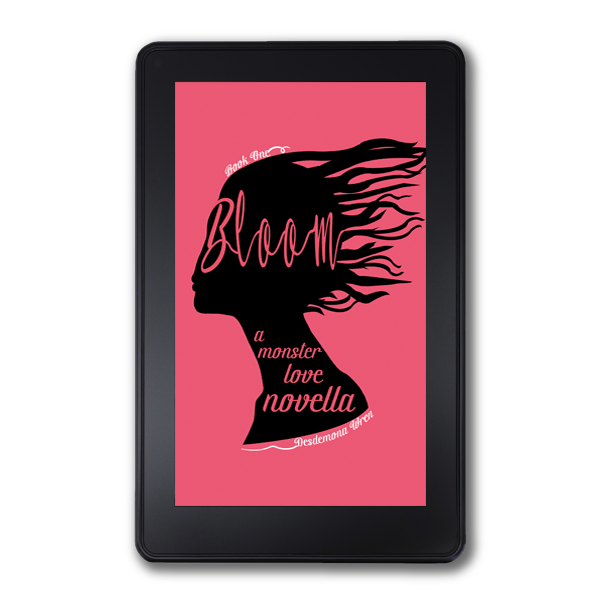
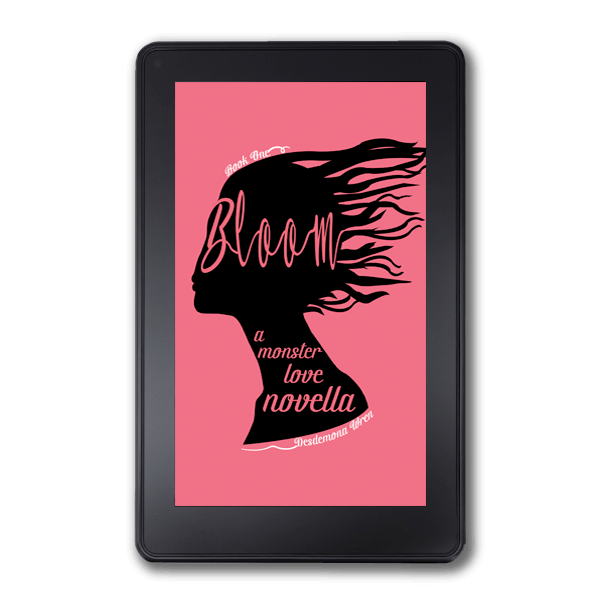
optimize images

Changed region(s): [[0.27, 0.12, 0.72, 0.84], [0.48, 0.36, 0.54, 0.42], [0.42, 0.39, 0.45, 0.42]]

diff --git a/index.html b/index.html
@@ -53,7 +53,7 @@
     <!-- Navigation -->
     <nav class="navbar navbar-expand-lg bg-secondary fixed-top text-uppercase" id="mainNav">
       <div class="container">
-        <a class="navbar-brand js-scroll-trigger" href="#page-top"><img class="img-fluid" src="img/website_logo_white1.png"></a>
+        <a class="navbar-brand js-scroll-trigger" href="#page-top"><img class="img-fluid" src="img/website_logo_white1.png" alt="Desdemona Wren"></a>
         <button class="navbar-toggler navbar-toggler-right text-uppercase bg-primary text-white rounded" type="button" data-toggle="collapse" data-target="#navbarResponsive" aria-controls="navbarResponsive" aria-expanded="false" aria-label="Toggle navigation">
           Menu
           <i class="fa fa-bars"></i>
@@ -70,7 +70,7 @@
               <a class="nav-link py-3 px-0 px-lg-3 rounded js-scroll-trigger" href="#social">Social</a>
             </li>
             <li class="nav-item mx-0 mx-lg-1">
-              <a class="nav-link py-3 px-0 px-lg-3 rounded js-scroll-trigger" href="https://desdemona-wren.tumblr.com/">Blog</a>
+              <a class="nav-link py-3 px-0 px-lg-3 rounded js-scroll-trigger" href="https://desdemona-wren.tumblr.com/" rel="noreferrer">Blog</a>
             </li>
           </ul>
         </div>
@@ -82,15 +82,15 @@
       <div class="container">
         <div class="row">
           <div class="col-md">
-            <a href="https://www.amazon.com/dp/B07FBWBDYR?ref_=pe_3052080_276849420" target="_blank">
-              <img class="img-fluid mb-5 d-block mx-auto" src="img/marjorie-diaz-for-website.png" alt="">
+            <a href="https://www.amazon.com/dp/B07FBWBDYR?ref_=pe_3052080_276849420" target="_blank" rel="noreferrer">
+              <img class="img-fluid mb-5 d-block mx-auto" src="img/marjorie-diaz-for-website.png" alt="Buy Marjorie on Amazon">
             </a>
           </div>
           <div class="col-md align-self-center">
             <h1 class="text-uppercase mb-0">Marjorie Diaz's Unfortunate Introduction <br>to Magical <br>High Society</h1></p>
             <h2 class="text-titlecase mb-0"><i>Girl meets boy.  Girl falls in love with boy.  <br>Boy hunts girl for sport.</i></h2></p>
             <p class="lead">Available now! <i>Only</i> on Amazon. </p>
-            <a href="https://www.amazon.com/dp/B07FBWBDYR?ref_=pe_3052080_276849420" target="_blank">
+            <a href="https://www.amazon.com/dp/B07FBWBDYR?ref_=pe_3052080_276849420" target="_blank" rel="noreferrer">
               <img class="img-fluid mb-5 d-block mx-auto" src="img/buy-on-amazon.gif" alt="Buy Marjorie on Amazon" title="Buy Marjorie on Amazon">
             </a>
           </div>
@@ -111,7 +111,7 @@
                   <i class="fa fa-search-plus fa-3x"></i>
                 </div>
               </div> -->
-              <a href="https://amazon.com/Bloom-Monster-Novella-Desdemona-Wren-ebook/dp/B07B4SLH9S/ref=la_B07B4WG4S8_1_1?"><img class="img-fluid" src="img/bloom-for-website.png" title="Bloom: A Monster Love Novella" alt="Bloom: A Monster Love Novella"></a>
+              <a href="https://amazon.com/Bloom-Monster-Novella-Desdemona-Wren-ebook/dp/B07B4SLH9S/ref=la_B07B4WG4S8_1_1?" target="_blank" rel="noreferrer"><img class="img-fluid" src="img/bloom-for-website.png" title="Bloom: A Monster Love Novella" alt="Bloom: A Monster Love Novella"></a>
           </div>
           <div class="col-md-6 col-lg-4">
             <!-- <a class="portfolio-item d-block mx-auto" href="#portfolio-modal-2"> -->
@@ -120,10 +120,10 @@
                   <i class="fa fa-search-plus fa-3x"></i>
                 </div>
               </div> -->
-              <a href="https://www.amazon.com/dp/B07FBWBDYR?ref_=pe_3052080_276849420"><img class="img-fluid" src="img/marjorie-diaz-for-website.png" title="Marjorie Diaz's Unfortunate Introduction to Magical High Society" alt="Marjorie Diaz's Unfortunate Introduction to Magical High Society"></a>
+              <a href="https://www.amazon.com/dp/B07FBWBDYR?ref_=pe_3052080_276849420" target="_blank" rel="noreferrer"><img class="img-fluid" src="img/marjorie-diaz-for-website.png" title="Marjorie Diaz's Unfortunate Introduction to Magical High Society" alt="Marjorie Diaz's Unfortunate Introduction to Magical High Society"></a>
           </div>
           <div class="col-md-6 col-lg-4">
-              <a href="https://www.amazon.com/Rags-Riches-Cinderella-Love-Stories-ebook/dp/B07JYW83WY"><img class="img-fluid" src="img/cinderella_love_stories_holder.png" title="Rags to Riches: Cinderella Love Stories" alt="Rags to Riches: Cinderella Love Stories"></a>
+              <a href="https://www.amazon.com/Rags-Riches-Cinderella-Love-Stories-ebook/dp/B07JYW83WY" target="_blank" rel="noreferrer"><img class="img-fluid" src="img/cinderella_love_stories_holder.png" title="Rags to Riches: Cinderella Love Stories" alt="Rags to Riches: Cinderella Love Stories"></a>
             </div>
             <div class="col-md-6 col-lg-4">
               <img class="img-fluid" src="img/Marjorie_coming_soon.png" title="Marjorie Diaz's Unfortunate Introduction to Ancestral Politics & Foul Play" alt="Marjorie Diaz's Unfortunate Introduction to Ancestral Politics & Foul Play">
@@ -154,7 +154,7 @@
           <div class="col-lg-4 mr-auto">
             <p class="lead">She has two cats named Oliver and Ophelia who have traveled the world. 
               From The Great Smoky Mountains, to the tallest peaks of The Cascades, and even to the Grand Canyon; they've been everywhere. 
-              To connect with Des about her new books, enter impromptu giveaways, read exclusive teasers, get ARCs, and more, join her <a href="https://www.facebook.com/groups/1905985889425662/?source_id=222367141645814">Readers Group</a>
+              To connect with Des about her new books, enter impromptu giveaways, read exclusive teasers, get ARCs, and more, join her <a href="https://www.facebook.com/groups/1905985889425662/?source_id=222367141645814" rel="noreferrer">Readers Group</a>
             </p>
           </div>
         </div>
@@ -170,17 +170,17 @@
             <h4 class="text-uppercase mb-4">Social</h4>
             <ul class="list-inline mb-0">
               <li class="list-inline-item">
-                <a class="btn btn-outline-light btn-social text-center rounded-circle" href="https://www.facebook.com/WholesaleRomance/" title="Facebook Group" alt="Facebook Group">
+                <a class="btn btn-outline-light btn-social text-center rounded-circle" href="https://www.facebook.com/WholesaleRomance/" title="Facebook Group" alt="Facebook Group" rel="noreferrer">
                   <i class="fab fa-facebook-f"></i>
                 </a>
               </li>
               <li class="list-inline-item">
-                <a class="btn btn-outline-light btn-social text-center rounded-circle" href="https://twitter.com/DesdemonaWren" title="Twitter" alt="Twitter">
+                <a class="btn btn-outline-light btn-social text-center rounded-circle" href="https://twitter.com/DesdemonaWren" title="Twitter" alt="Twitter" rel="noreferrer">
                   <i class="fab fa-twitter"></i>
                 </a>
               </li>
               <li class="list-inline-item">
-                <a class="btn btn-outline-light btn-social text-center rounded-circle" href="https://www.instagram.com/wholesaleromance" title="Instagram" alt="Instagram">
+                <a class="btn btn-outline-light btn-social text-center rounded-circle" href="https://www.instagram.com/wholesaleromance" title="Instagram" alt="Instagram" rel="noreferrer">
                   <i class="fab fa-instagram"></i>
                 </a>
               </li>
@@ -188,17 +188,17 @@
             <br>
             <ul class="list-inline mb-0">
                 <li class="list-inline-item">
-                    <a class="btn btn-outline-light btn-social text-center rounded-circle" href="https://www.goodreads.com/author/show/17761097.Desdemona_Wren" title="Goodreads" alt="Goodreads">
+                    <a class="btn btn-outline-light btn-social text-center rounded-circle" href="https://www.goodreads.com/author/show/17761097.Desdemona_Wren" title="Goodreads" alt="Goodreads" rel="noreferrer">
                       <i class="fab fa-goodreads-g"></i>
                     </a>
                   </li>
                   <li class="list-inline-item">
-                    <a class="btn btn-outline-light btn-social text-center rounded-circle" href="https://www.wattpad.com/user/Wrensday" title="Wattpad" alt="Wattpaad">
+                    <a class="btn btn-outline-light btn-social text-center rounded-circle" href="https://www.wattpad.com/user/Wrensday" title="Wattpad" alt="Wattpaad" rel="noreferrer">
                       <svg class="icon icon-wattpad"><use xlink:href="#icon-wattpad"></use></svg>
                     </a>
                   </li>
                   <li class="list-inline-item">
-                    <a class="btn btn-outline-light btn-social text-center rounded-circle" href="https://www.bookbub.com/profile/desdemona-wren" title="Bookbub" alt="Bookbub">
+                    <a class="btn btn-outline-light btn-social text-center rounded-circle" href="https://www.bookbub.com/profile/desdemona-wren" title="Bookbub" alt="Bookbub" rel="noreferrer">
                       <svg class="icon icon-book"><use xlink:href="#icon-book"></use></svg>
                     </a>
                   </li>
